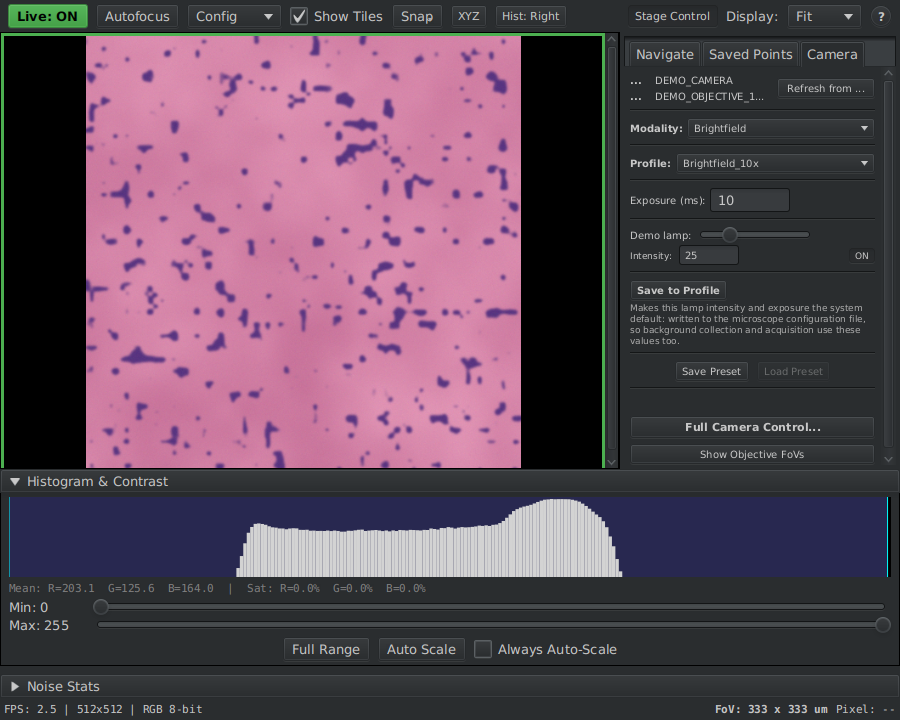
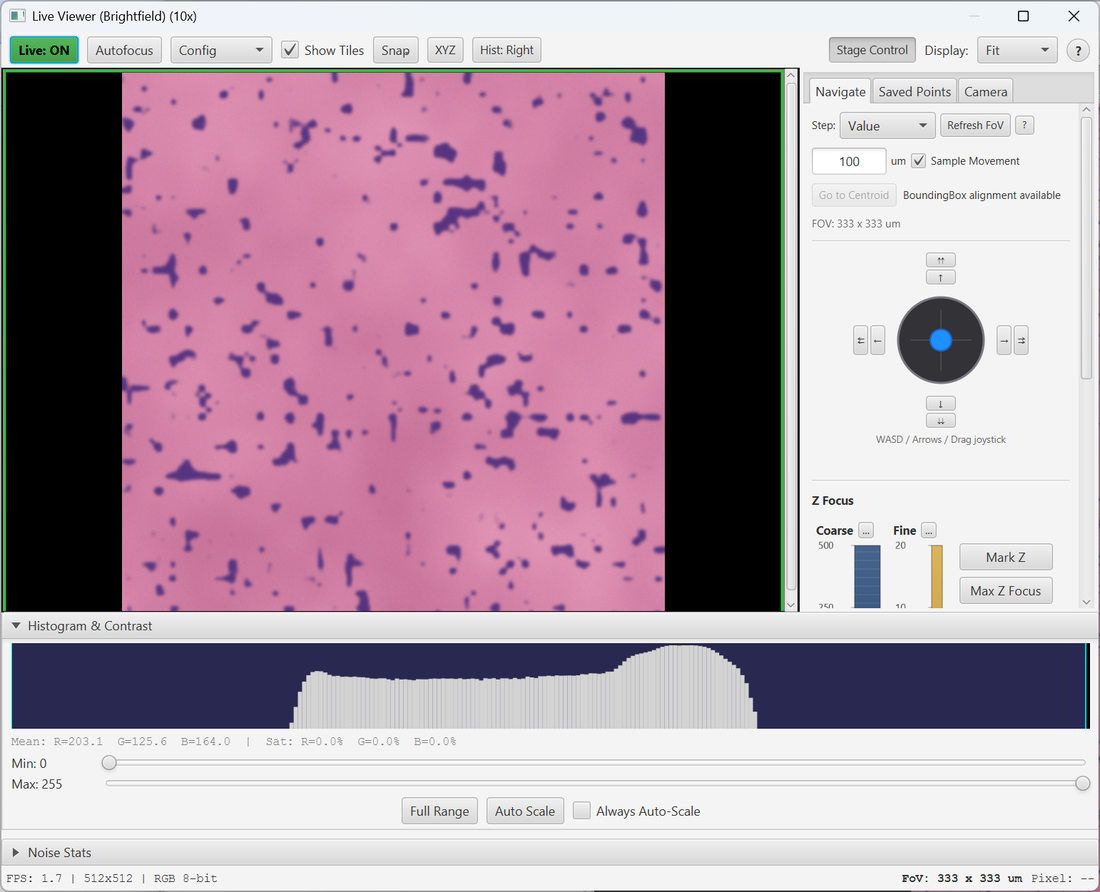
docs(demo): apply the doc-review findings on the demo microscope
Per the doc-review run demo-microscope-docs (agent-reports/doc-review/):
the Live Viewer button is "Live: OFF" / "Live: ON", not "Live"; the
Micro-Manager Demo adapter claim is softened to what is true and the real-MM
run is named as untested; "a much longer exposure saturates" becomes the
measured thresholds (glass clips above 10.5 ms at intensity 25); ARCHITECTURE
credits DemoMicroscope's callback, not the switcher, with reopening the Live
Viewer; "full white" glass is near-white (243 of 255) and the focal "plane"
is an undulating surface.

INSTALLATION is now a numbered procedure that leads with the venv condition,
quotes the success notification and both prompts, names the file to pick,
explains the first frame (colours, +4 um start focus), and gives a Bounded
Acquisition worked example. TROUBLESHOOTING quotes the "could not start"
dialog and its three variants and adds entries for the localhost prompt,
autofocus on glass, and four other messages. UTILITIES, PREFERENCES, README
and CHANGELOG follow the same findings. Both figures recaptured on Windows in
the light theme with title bars.

Claude-Session: https://claude.ai/code/session_01RGGpEUhYNeo6kpExXM8tGC

diff --git a/documentation/TROUBLESHOOTING.md b/documentation/TROUBLESHOOTING.md
@@ -119,32 +119,80 @@ running the Setup Wizard) replaces it and re-enables acquisition.
 
 #### Q: Connect to a Demo Microscope says it could not start the microscope command server
 
-**A:** QPSC runs `microscope-command-server --demo` and looks for that program on the
-PATH. A Python virtual environment is not on the PATH unless it is activated, so from
-QuPath the console script is usually not found. Either start the server yourself --
-activate the environment, run `microscope-command-server --demo`, then choose the menu
-item again (it uses a server that is already listening) -- or click **Locate server
-program...** in that dialog and pick the `microscope-command-server` executable in the
-environment's `Scripts` (Windows) or `bin` (Linux/macOS) folder, or the repository's
-`start_server.bat`. The choice is stored in the *Server launcher* preference and used
-from then on. The dialog also shows the server's last output lines when it started and
-then exited, which is where a missing Python package shows up.
+**A:** The dialog is headed *QPSC could not start the microscope command server* and begins
+*Nothing is listening on port 5000 and the server did not start:*, followed by one of three
+details.
+
+- `microscope-command-server: Cannot run program "microscope-command-server"`: the program
+  was not found. A Python virtual environment's programs are found only while it is
+  activated, so when QuPath starts the server the `microscope-command-server` program
+  installed with the Python packages is usually not found. **Fix A, start it yourself:**
+  1. Activate the environment (`venv_qpsc\Scripts\activate.bat`). 2. Run
+  `microscope-command-server --demo`. 3. Choose **Connect to a Demo Microscope...** again;
+  QPSC uses the server that is already listening. **Fix B, point QPSC at the program once:**
+  1. Click **Locate server program...**. 2. Pick `venv_qpsc\Scripts\microscope-command-server`
+  (Windows), `venv_qpsc/bin/microscope-command-server` (Linux/macOS), or the repository's
+  `start_server.bat`. The choice is stored in the *Server launcher* preference and used
+  from then on.
+- `<program> exited with code N:` followed by the server's last output lines. A line
+  `ModuleNotFoundError: No module named '...'` means a Python package is missing from that
+  environment; see [Step 3.4](INSTALLATION.md#34-troubleshooting-python-installation).
+- `<program>: still no server on port 5000 after 60 s` with nothing else: the program ran but
+  never listened. With `start_server.bat` this is usually a preflight failure waiting at
+  `pause` on a console you cannot see; run the batch file by hand once to read the message.
+
+#### Q: The demo asks "Point the server connection at this computer?"
+
+**A:** The server host preference names your scope PC, but the demo server runs here.
+**Use localhost** sets the host to `localhost` for the demo; **Cancel** aborts the connect.
+Restore the old host under **Extensions > QP Scope > Utilities > Microscope Configuration >
+Communication Settings...** when you return to the real microscope.
 
 #### Q: The demo connected, but the Live Viewer is blank white or black
 
-**A:** Turn **Live** on (the button at the top left of the Live Viewer). The simulated
-camera renders bare glass as white at 10 ms exposure and lamp intensity 25; a much longer
-exposure saturates the frame, a much shorter one is dark, exactly like a real camera. Set
-the exposure on the Camera tab. The stage starts at the slide centre, which is tissue.
+**A:** Click **Live: OFF** (top left of the Live Viewer) so it reads **Live: ON**. The
+simulated camera renders bare glass near-white (about 243 of 255) at 10 ms exposure and
+lamp intensity 25, and brightness scales as (exposure / 10 ms) x (intensity / 25). At
+intensity 25 the glass clips above about 10.5 ms, the pink tissue above about 11 ms, and
+the whole frame is white above about 50 ms; below about 2 ms it is nearly black. Lamp
+**State** off or intensity 0 gives a black frame at any exposure. To change the exposure,
+click **Stage Control**, open the **Camera** tab and set **Exposure (ms)** to 10 and the Demo
+lamp **Intensity** to 25; the demo connect sets 10 ms for you. The stage starts at the
+slide center, which is tissue, but best focus there is at about Z = +4 um, so a frame that
+looks blurred rather than blank is focus, not exposure: click **Autofocus**.
+
+#### Q: Autofocus defers, or says the field has no tissue
+
+**A:** About half the demo slide is bare glass. The demo's `dense_texture` strategy scores
+only fields with at least 20 % tissue and defers the rest to a neighbor, as it would on a
+real slide. Pan into a pink island. The camera's **Gain** property is accepted but changes
+nothing, and **Binning** 1, 2 or 4 shrinks the frame while keeping the same 333 um field.
+
+#### Q: Connect to a Demo Microscope shows "Could not connect to the demo server", or a Switch Microscope error
+
+**A:** *Could not connect to the demo server: ...* means the demo config was already active
+and a server answered on the port, but the CONFIG handshake failed, usually a server that
+was not started with `--demo`; its console should show `DEMO MODE: no Micro-Manager,
+driving a simulated microscope`. *The new config did not validate; the previous microscope
+configuration has been restored* means `config_Demo.yml` or one of its sidecars was edited
+and no longer validates: delete `<QuPath user directory>/qpsc-demo-microscope/` and choose
+the menu item again, and the bundle is re-extracted. *An acquisition is running in this
+QuPath* or *The microscope server reports an acquisition in progress* means the switch the
+demo needs is refused during an acquisition; wait for it to finish or cancel it. *Could not
+write the demo microscope config* means the QuPath user directory is not writable; choose a
+writable one in QuPath's preferences.
 
 #### Q: How do I get back to my real microscope after the demo?
 
-**A:** Point the Microscope Config File preference at your own `config_<scope>.yml` and
-choose **Utilities > Microscope Configuration > Switch Microscope...** (or accept the offer
-QPSC makes when the preference changes). If the demo changed the server host to
-`localhost`, set it back under Communication Settings. A demo server that QPSC started
-stops when QuPath exits; one you started yourself keeps running until you close it, and
-holds port 5000 until then.
+**A:** Set the Microscope Config File preference to your own `config_<scope>.yml` and accept
+the offer QPSC makes, or choose **Extensions > QP Scope > Utilities > Microscope
+Configuration > Switch Microscope...**. If the demo changed the server host to `localhost`,
+set **Host** back under **Communication Settings...**. The demo also set the Live Viewer's
+remembered exposure to its 10 ms; if your first live frame on the real scope is dark, set
+**Exposure (ms)** again on the Camera tab. A demo server that QPSC started stops when
+QuPath exits; one you started yourself keeps running until you close its window, and while
+it runs nothing else can use the server port (5000 by default), so your real server will
+not start on this computer.
 
 ### Setup Wizard
 

diff --git a/documentation/INSTALLATION.md b/documentation/INSTALLATION.md
@@ -221,43 +221,70 @@ You should see "QP Scope" as a top-level menu. If it does not appear, verify the
 
 ## Try It Without a Microscope (optional)
 
-QPSC ships a simulated microscope, the way Micro-Manager ships a demo configuration.
-It needs Steps 1, 3 and 4 only -- QuPath, the Python packages and the two JARs. No
-Micro-Manager, no hardware, no Setup Wizard.
+QPSC ships a simulated microscope. It needs Steps 1, 3 and 4 only: QuPath, the Python
+packages and the two JARs. No Micro-Manager, no hardware, no Setup Wizard. Use it to learn
+the dialogs before booking scope time, to check an install on a new PC, or to reproduce a
+bug for a report.
 
-1. In QuPath, choose **Extensions -> QP Scope -> Connect to a Demo Microscope...**
-2. QPSC starts the command server in demo mode on this computer
-   (`microscope-command-server --demo`), switches to the bundled demo configuration,
-   connects, and opens the Live Viewer.
-3. Turn **Live** on. You are looking at a virtual H&E slide: the stage arrows pan across
-   it, the Z controls defocus it, and Autofocus finds the focal plane again. Open the
-   Stage Map to see the slide outline, or run a Bounded Acquisition to acquire and stitch
-   tiles.
+**If you installed the Python packages in a virtual environment (Step 3.1), QPSC will not
+find the server program the first time.** Expect the dialog *QPSC could not start the
+microscope command server*. Step 2 below says what to do.
 
-Everything above the camera and stage is the production code path -- the socket
-protocol, autofocus, tiled acquisition, stitching -- so what you see is what a real
-scope does.
+1. Choose **Extensions -> QP Scope -> Connect to a Demo Microscope...**. Starting the server
+   takes a few seconds (QPSC waits up to a minute). When it is up, a notification reads
+   *Started the demo server and connected.* and the Live Viewer opens.
+2. If the dialog *QPSC could not start the microscope command server* appears instead, click
+   **Locate server program...** and pick `venv_qpsc\Scripts\microscope-command-server`
+   (Windows) or `venv_qpsc/bin/microscope-command-server` (Linux/macOS). QPSC remembers the
+   choice as the *Server launcher* preference, starts the server, and connects.
+3. If QPSC asks *Point the server connection at this computer?*, click **Use localhost**. It
+   means Communication Settings pointed at another computer; the demo server runs on this
+   one. Set the host back when you return to the real microscope.
+4. Click **Live: OFF** at the top left of the Live Viewer. It turns green, reads **Live: ON**,
+   and shows a virtual H&E slide: pink is eosin-stained stroma, the small dark purple spots
+   (about 9 um) are nuclei, and near-white is bare glass. The stage starts at the slide
+   center, which is tissue, but best focus there is at about Z = +4 um, so the first frame is
+   slightly soft: click **Autofocus**. The arrow buttons on the **Navigate** tab pan across
+   the slide. Tissue sits in islands a few millimeters across, and about half the slide is
+   glass.
+5. Optional: **Extensions -> QP Scope -> Acquisition controls -> Stage Map** shows the slide
+   outline with the stage crosshair at its center.
+6. Optional: **Extensions -> QP Scope -> Acquisition controls -> Bounded Acquisition** acquires
+   and stitches tiles. A worked example: Sample Name `DemoSample01`; **Center Point + Size**
+   with Center X `0`, Center Y `0`, Width `2000`, Height `2000` (the preview reads *Tile Grid:
+   8 x 8 = 64 tiles*); **Use background correction** unticked; **Start Acquisition**. About
+   70 s later `DemoSample01_0.0_001.ome.tif` (3737 x 3737 px at 0.65 um/px) appears in the
+   project.
 
-![Live Viewer on the demo microscope: the virtual H&E slide at 10x](images/Docs_DemoMicroscope_LiveViewer.png)
+Only the camera and stage are simulated. The connection, autofocus, tiled acquisition and
+stitching run the same code as a real microscope. The demo is a 10x objective (0.65 um/px)
+on a 512 x 512 camera, a 333 x 333 um field of view, looking at a 40 x 20 mm slide centered
+on the stage origin; beyond it the camera sees bare glass. The slide pattern is fixed, so the
+same stage position always shows the same tissue, and each frame adds simulated read noise.
+What the simulation leaves out is listed in the
+[server README](https://github.com/uw-loci/microscope_command_server#demo-mode---demo).
 
-![Stage Map on the demo microscope: the synthesized single-slide insert](images/Docs_DemoMicroscope_StageMap.png)
+![Live Viewer on the demo microscope: Live: ON, a pink virtual H&E slide with purple nuclei at 10x, Exposure 10 ms, Demo lamp 25](images/Docs_DemoMicroscope_LiveViewer.png)
 
-**If QPSC cannot start the server.** It looks for `microscope-command-server` on the
-PATH, which a virtual environment is not on unless it is activated. QPSC then shows the
-command to run yourself (activate the environment, run
-`microscope-command-server --demo`, choose the menu item again) and offers
-**Locate server program...**: point it at the `microscope-command-server` executable in
-the environment's `Scripts` folder (Windows) or `bin` folder (Linux/macOS), or at the
-repository's `start_server.bat`, and it is started for you from then on. The choice is
-kept in the QPSC preferences (*Server launcher*).
+![Stage Map on the demo microscope: one slide outline labeled Slide 1 with the stage crosshair at its center, Source set to Demo](images/Docs_DemoMicroscope_StageMap.png)
+
+Already have the server environment open? Run the server there, then choose the menu item.
+QPSC connects to a server that is already listening instead of starting one:
+
+```bash
+microscope-command-server --demo
+```
 
 **Where things go.** The demo configuration is extracted once to
 `<QuPath user directory>/qpsc-demo-microscope/` (`config_Demo.yml` with its autofocus,
-imageprocessing and resources sidecars) and selected as the Microscope Config File.
-Acquired tiles go wherever the acquisition dialog sends them, as on a real scope. A server
-QPSC started is stopped when QuPath exits. To return to a real microscope, point the
-Microscope Config File preference at your own config and use **Switch Microscope...**, or
-run the Setup Wizard below.
+imageprocessing and resources files) and selected as the Microscope Config File. Your edits
+to those files survive updates; delete the folder for a fresh copy. Acquired tiles and the
+stitched image go into the project, as on a real scope. A server QPSC started is stopped when
+QuPath exits. To return to a real microscope, set **Edit -> Preferences -> QuPath SCope ->
+Microscope Config File** to your own `config_<scope>.yml` and accept the Switch Microscope
+offer, or choose **Extensions -> QP Scope -> Utilities -> Microscope Configuration -> Switch
+Microscope...**, or run the Setup Wizard below. Problems and their messages are in
+[Troubleshooting: Demo microscope](TROUBLESHOOTING.md#demo-microscope).
 
 ---
 

diff --git a/documentation/UTILITIES.md b/documentation/UTILITIES.md
@@ -30,7 +30,7 @@ The **QP Scope** entry in the menu bar shows a coloured dot so it stands out whe
 | **Top-Level Menu** | | |
 | [Acquisition Wizard](tools/acquisition-wizard.md) | Guided setup for new acquisitions | Extensions > QP Scope > Acquisition Wizard... |
 | [Multi-Slide Acquisition](tools/multi-slide-acquisition.md) | Batch-acquire several slides in one holder (setup pass + walk-away acquire); appears when config has a multi-slide holder | Extensions > QP Scope > Multi-Slide Acquisition... |
-| [Connect to a Demo Microscope](#connect-to-a-demo-microscope) | Try QPSC with no hardware: start the command server in demo mode, switch to the bundled demo config, connect, open the Live Viewer | Extensions > QP Scope > Connect to a Demo Microscope... |
+| [Connect to a Demo Microscope](#connect-to-a-demo-microscope) | Try QPSC with no hardware: start the microscope server in demo mode, switch to the bundled demo config, connect, open the Live Viewer | Extensions > QP Scope > Connect to a Demo Microscope... |
 | [Report a Bug...](#report-a-bug) | Submit a bug report directly to the issue tracker | Extensions > QP Scope > Report a Bug... |
 | **Acquisition controls** | | |
 | [Bounded Acquisition](tools/bounded-acquisition.md) | Direct bounding-box acquisition from stage coordinates | Extensions > QP Scope > Acquisition controls > Bounded Acquisition |
@@ -109,18 +109,35 @@ Adds the objective currently in the light path to the microscope configuration w
 ### Connect to a Demo Microscope
 
 QPSC driving a simulated microscope, the way Micro-Manager's demo configuration lets you try
-that program with no hardware. Always enabled, even with no configuration. It extracts the
-bundled demo configuration (`<QuPath user directory>/qpsc-demo-microscope/config_Demo.yml`) if
-needed, makes sure the server host preference names this computer, finds a command server
-already listening on the configured port or starts one with `microscope-command-server --demo`
-(the *Server launcher* preference first, then the PATH), switches to the demo configuration
-through Switch Microscope, connects, and opens the Live Viewer. The demo is the real server
-with its Micro-Manager core replaced by an in-memory microscope: a virtual H&E slide on an XYZ
-stage with a focal surface, so the Live Viewer, Stage Map, autofocus, acquisition and
-stitching all run the production code path. If the server cannot be started, a dialog shows
-the command to run yourself and offers **Locate server program...**, which stores the
-executable in the *Server launcher* preference. A server QPSC started stops when QuPath
-exits. See [Try It Without a Microscope](INSTALLATION.md#try-it-without-a-microscope-optional).
+that program with no hardware. Always enabled, even with no configuration.
+
+**Needs:** QuPath, the Python packages and the two JARs. No Micro-Manager, no configuration.
+
+**Does:** extracts the demo configuration
+(`<QuPath user directory>/qpsc-demo-microscope/config_Demo.yml`) if it is missing; asks to
+point the server host at this computer (**Use localhost**) if it names another machine, and
+Cancel aborts; uses a server already listening on the configured port, or starts
+`microscope-command-server --demo` (the *Server launcher* preference first, then the PATH);
+switches to the demo configuration through Switch Microscope, or just reconnects if the demo
+is already active; sets the Live Viewer's remembered exposure to the demo's 10 ms; opens the
+Live Viewer. On success a notification reads *Started the demo server and connected.* or
+*Connected to the server already running on port 5000.*; the second means QPSC reused
+whatever was listening.
+
+**Simulated:** the camera and stage only, a virtual H&E slide on an XYZ stage with a focal
+surface (10x, 0.65 um/px, 512 x 512 px, a 333 um field, a 40 x 20 mm slide, 8-bit RGB). The
+Live Viewer, Stage Map, autofocus, acquisition and stitching run the real server's code. No
+command-line flag or YAML key changes the slide, the stage speeds or the seed; only the
+ordinary QPSC settings apply.
+
+**If the server cannot start:** a dialog shows the command to run yourself and offers
+**Locate server program...**, which stores the executable (for example
+`C:\Users\<you>\venv_qpsc\Scripts\microscope-command-server.exe`) in the *Server launcher*
+preference.
+
+**Leaving:** a server QPSC started stops when QuPath exits; return to a real microscope with
+Switch Microscope. See [Try It Without a Microscope](INSTALLATION.md#try-it-without-a-microscope-optional)
+and [Troubleshooting: Demo microscope](TROUBLESHOOTING.md#demo-microscope).
 
 ### [Communication Settings](tools/server-connection.md)
 

diff --git a/CHANGELOG.md b/CHANGELOG.md
@@ -25,8 +25,8 @@ and this project adheres to [Semantic Versioning](https://semver.org/spec/v2.0.0
 - The LC-PolScope calibration result dialog has an **Apply to acquisition** button. It writes the calibrated palette into the microscope YAML, so acquisition uses that calibration rather than whatever calibrated the Micro-Manager Channel presets. Each state's LC retardances are written in waves, its stale voltage preset is dropped, `reconstruction.state_order` is reset to the palette's order, and the calibration file, time and extinction ratio are recorded under `reconstruction`. A calibration below an extinction ratio of 80 asks for confirmation first. The server reads the crystals back on the first tile, and derived tiles record `polscope.lc_readback_agrees`. See [UTILITIES.md](documentation/UTILITIES.md#lc-polscope-calibration).
 
 **Try QPSC on a demo microscope**
-- New top-level item **Extensions > QP Scope > Connect to a Demo Microscope...**, always enabled, the way Micro-Manager's demo configuration lets you try that program with no hardware. It starts the command server in demo mode on this computer (`microscope-command-server --demo`, found through the *Server launcher* preference or the PATH; a server already listening is used instead), extracts and switches to a bundled demo configuration, connects, and opens the Live Viewer. The demo server is the production server with its Micro-Manager core replaced by an in-memory microscope: a virtual H&E slide on an XYZ stage with a focal surface, so the Live Viewer, Stage Map, autofocus, acquisition and stitching all run the real code path. Needs QuPath, the two JARs and the Python packages only -- no Micro-Manager. When the server cannot be started, a dialog shows the command to run and offers to locate the program. See [INSTALLATION.md](documentation/INSTALLATION.md#try-it-without-a-microscope-optional).
-- The bundled Offline / Analysis placeholder and the demo configuration are installed by one `BundledScopeInstaller` (replacing `OfflineScopeInstaller`); the demo lives in `<QuPath user directory>/qpsc-demo-microscope/` and is marked `microscope.demo: true`.
+- New top-level item **Extensions > QP Scope > Connect to a Demo Microscope...**, always enabled. It starts the microscope server in demo mode on this computer (`microscope-command-server --demo`, found through the *Server launcher* preference or the PATH; a server already listening is used instead), extracts a bundled demo configuration, switches to it, connects, and opens the Live Viewer. The demo server is the production server with its Micro-Manager core replaced by an in-memory microscope: a virtual H&E slide on an XYZ stage with a focal surface, so the Live Viewer, Stage Map, autofocus, acquisition and stitching all run the real code path. Needs QuPath, the two JARs and the Python packages only; no Micro-Manager. When the server cannot be started, a dialog shows the command to run and offers to locate the program. See [INSTALLATION.md](documentation/INSTALLATION.md#try-it-without-a-microscope-optional).
+- The demo configuration lives in `<QuPath user directory>/qpsc-demo-microscope/` beside the Offline / Analysis placeholder; both are installed by the extension and written only when missing.
 
 **Switch microscope without restarting QuPath**
 - Changing the Microscope Config File preference now offers a **Switch Microscope** action instead of requiring a restart. The switch disconnects from the command server, reloads the config, rebuilds the QP Scope menu, and reopens the Live Viewer and Stage Map if they were open. Other QP Scope windows are closed, since they describe the previous microscope. It is also available any time from Extensions > QP Scope > Utilities > Microscope Configuration > Switch Microscope... It is refused during an acquisition, and a file that fails validation is rolled back to the previous configuration. See [PREFERENCES.md](documentation/PREFERENCES.md#microscope-config-file).

diff --git a/documentation/developer/ARCHITECTURE.md b/documentation/developer/ARCHITECTURE.md
@@ -267,7 +267,9 @@ Multiple microscope-specific configs exist: `config_PPM.yml` for the PPM-only sy
 
 **Offline / Analysis placeholder.** On a fresh install (the `microscopeConfigFileProperty` preference is empty), `SetupScope.installExtension` calls `BundledScopeInstaller.ensureInstalled(Bundle.OFFLINE)` to extract a bundled, self-contained placeholder config (`config_Offline.yml` + sidecars) to `<QuPath user dir>/qpsc-offline-microscope/` and selects it. The placeholder is marked `microscope.placeholder: true`; `MicroscopeConfigManager.isOfflineScope()` reads that flag. When true, `SetupScope.addMenuItem` runs **analysis-only mode** -- every hardware/acquisition menu gate (`!configValid`) is widened to `!configValid || offlineScope`, so acquisition/calibration workflows are disabled while analysis and project utilities (PPM analysis, Propagation Manager, Stitching Recovery, Stage Map, Live Viewer, Setup Wizard) stay enabled. This replaces the old "settings missing -- everything disabled" warning on first run with a clean install plus a one-time info notification. Selecting any real config (or running the Setup Wizard) clears the flag and re-enables acquisition. The bundled config is the authoritative copy; a headless test (`BundledScopeConfigTest`) asserts it validates clean.
 
-**Demo microscope.** The same installer ships a second bundle, `Bundle.DEMO` (`config_Demo.yml` + autofocus, imageprocessing and resources sidecars, extracted to `<QuPath user dir>/qpsc-demo-microscope/`, marked `microscope.demo: true`, read by `MicroscopeConfigManager.isDemoScope()`). `controller/DemoMicroscope` (menu item *Connect to a Demo Microscope...*) ensures that bundle exists, finds or starts `microscope-command-server --demo` (the *Server launcher* preference, then the PATH; the process is destroyed on JVM exit), then hands over to `MicroscopeSwitcher.switchTo(path, confirm, connectAfter=true, onSuccess)` which reconnects and reopens the Live Viewer. Server side, `--demo` replaces the Pycro-Manager `Core`/`Studio` with `microscope_command_server.demo.virtual_microscope.DemoCore`/`DemoStudio`; every class above the core is the production one. The demo's hardware is defined only in its own `resources/resources_LOCI.yml` because the server's config loader replaces a config's `id_*` sections with the resources file's.
+**Demo microscope.** The same installer ships a second bundle, `Bundle.DEMO` (`config_Demo.yml` + autofocus, imageprocessing and resources sidecars, extracted to `<QuPath user dir>/qpsc-demo-microscope/`, marked `microscope.demo: true`, read by `MicroscopeConfigManager.isDemoScope()`). `controller/DemoMicroscope` (menu item *Connect to a Demo Microscope...*) ensures that bundle exists, finds or starts `microscope-command-server --demo` (the *Server launcher* preference, then the PATH; the launched process is destroyed on JVM exit), then hands over to `MicroscopeSwitcher.switchTo(path, confirm, connectAfter=true, onSuccess)`, which reconnects and then runs `DemoMicroscope`'s `onSuccess`: adopt the demo profile's default exposure into the Live Viewer's remembered value, then open the Live Viewer. When the demo config is already active the switcher is skipped and QPSC only reconnects.
+
+Server side, `--demo` replaces the Pycro-Manager `Core`/`Studio` with `microscope_command_server.demo.virtual_microscope.DemoCore`/`DemoStudio`; every class above the core is the production one. The demo's hardware is defined only in its own `resources/resources_LOCI.yml` because the server's config loader replaces a config's `id_*` sections with the resources file's.
 
 #### Tiling
 

diff --git a/documentation/PREFERENCES.md b/documentation/PREFERENCES.md
@@ -282,13 +282,21 @@ When enabled, QuPath automatically attempts to connect to the microscope server 
 
 **Description:**
 The program QPSC runs, with `--demo`, when **Connect to a Demo Microscope...** finds no
-command server listening on the configured port: the `microscope-command-server`
+microscope server listening on the configured port: the `microscope-command-server`
 executable from the Python environment that holds the QPSC packages (its `Scripts`
-folder on Windows, `bin` elsewhere), or the repository's `start_server.bat`. Empty means
-"whatever `microscope-command-server` is on the PATH", which a virtual environment is
-not unless it is activated. Set from the **Locate server program...** button in the
-dialog that appears when the server could not be started; it is not on the preferences
-pane. A server already listening is always used instead of starting one.
+folder on Windows, `bin` elsewhere), or the repository's `start_server.bat` (batch files
+run through `cmd.exe /c`). Empty means "whatever `microscope-command-server` is on the
+PATH"; a virtual environment's programs are found only while it is activated, see
+[Troubleshooting: Demo microscope](TROUBLESHOOTING.md#demo-microscope). A server already
+listening is always used instead of starting one.
+
+**Changing it:** the only control is the **Locate server program...** button in the dialog
+that appears when the server could not be started; it is not on the preferences pane. A
+value that starts a working server cannot be changed or cleared from QuPath.
+
+**Example:** `C:\Users\<you>\venv_qpsc\Scripts\microscope-command-server.exe` (the
+Windows virtual environment from Installation step 3) or
+`/home/<you>/venv_qpsc/bin/microscope-command-server` (Linux).
 
 ---
 
@@ -332,9 +340,12 @@ overwritten.
 
 **Demo microscope:** **Extensions > QP Scope > Connect to a Demo Microscope...**
 extracts a second bundled config, `<QuPath user directory>/qpsc-demo-microscope/config_Demo.yml`
-(marked `microscope.demo: true`), and switches this preference to it. Unlike the
-placeholder it is a complete, acquisition-capable configuration, driven by the command
-server started with `--demo`. Switch back to your own config with Switch Microscope.
+(marked `microscope.demo: true`), and switches this preference to it; on Windows the value
+becomes `C:\Users\<you>\QuPath\v0.7\qpsc-demo-microscope\config_Demo.yml`. Unlike the
+placeholder it is a complete, acquisition-capable configuration, driven by the microscope
+server started with `--demo`. The connect also sets the Live Viewer's remembered exposure
+to the demo's 10 ms. Switch back with **Extensions > QP Scope > Utilities > Microscope
+Configuration > Switch Microscope...**, or change this preference and accept the offer.
 
 **CRITICAL WARNING:**
 Using the wrong configuration file could damage the microscope! Ensure this points to the correct configuration for your specific microscope system.

diff --git a/README.md b/README.md
@@ -132,9 +132,11 @@ running**. See the [Installation Guide](documentation/INSTALLATION.md) for the f
 > - **[Brightfield / PPM Quick Start](documentation/QUICKSTART-BF.md)** -- transmitted light imaging in 15 minutes
 > - **[Laser Scanning / SHG Quick Start](documentation/QUICKSTART-LSM.md)** -- multiphoton / second harmonic generation setup
 >
-> **No microscope yet?** Install QuPath, the Python packages and the two JARs, then choose
-> **Extensions > QP Scope > Connect to a Demo Microscope...** QPSC starts the command server in demo
-> mode (a simulated slide on an XYZ stage, no Micro-Manager needed) and opens the Live Viewer. See
+> **No microscope yet?** Do Steps 1, 3 and 4 of the [Installation Guide](documentation/INSTALLATION.md)
+> (QuPath, the Python packages, the QPSC and tiles-to-pyramid JARs), then choose
+> **Extensions > QP Scope > Connect to a Demo Microscope...** QPSC starts the microscope server in demo
+> mode (a simulated slide on an XYZ stage, no Micro-Manager needed) and opens the Live Viewer. Click
+> **Live: OFF** to see the simulated slide. See
 > [Try It Without a Microscope](documentation/INSTALLATION.md#try-it-without-a-microscope-optional).
 
 ### Prerequisites
